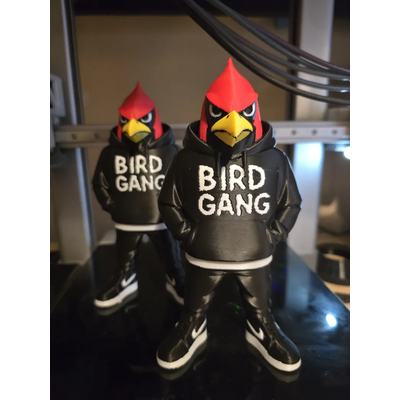
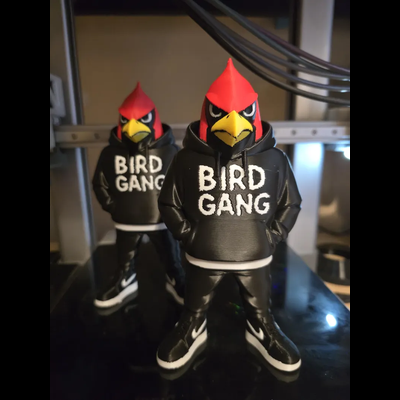
Refactor code structure for improved readability and maintainability

Changed region(s): [[0.87, 0.0, 1.0, 1.0], [0.0, 0.0, 0.15, 1.0]]

diff --git a/index.html b/index.html
@@ -205,7 +205,7 @@
                             </div>
                             <div class="col-6 col-lg-3 fade-in-up stagger-3" role="gridcell">
                                 <div class="gallery-item">
-                                    <img src="images/birdgang_resized_400x400.png" alt="Bird collection miniatures" class="gallery-img img-fluid rounded" width="400" height="400" loading="lazy">
+                                    <img src="images/birdgang_custom_bg_161919_400x400newnew.png" alt="Bird collection miniatures" class="gallery-img img-fluid rounded" width="400" height="400" loading="lazy">
                                 </div>
                             </div>
                             <div class="col-6 col-lg-3 fade-in-up stagger-4" role="gridcell">
@@ -311,6 +311,11 @@
             </div>
         </section>
     </main>
+
+    <!-- Back to Top Button -->
+    <div class="text-center my-4">
+        <a href="#hero" class="btn-outline-futuristic" style="min-width:140px;">Back to Top</a>
+    </div>
 
     <!-- Footer -->
     <footer id="contact" class="text-white py-5 py-md-6" role="contentinfo">
